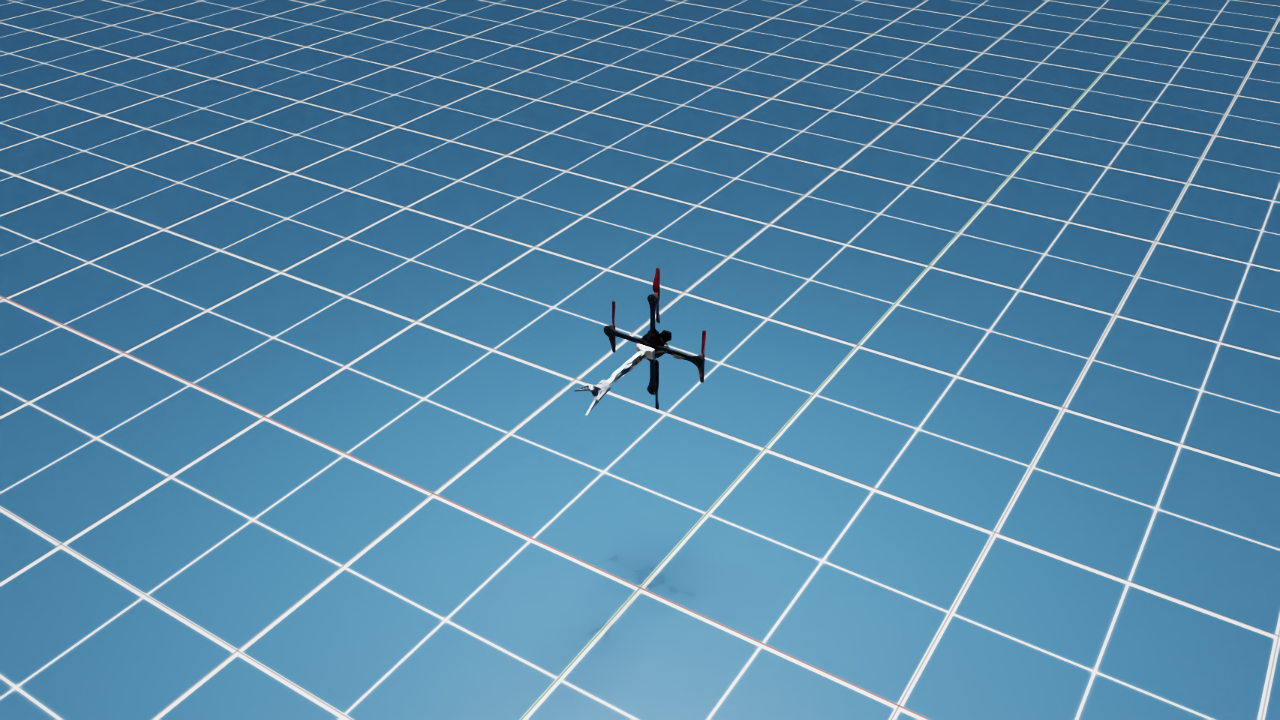
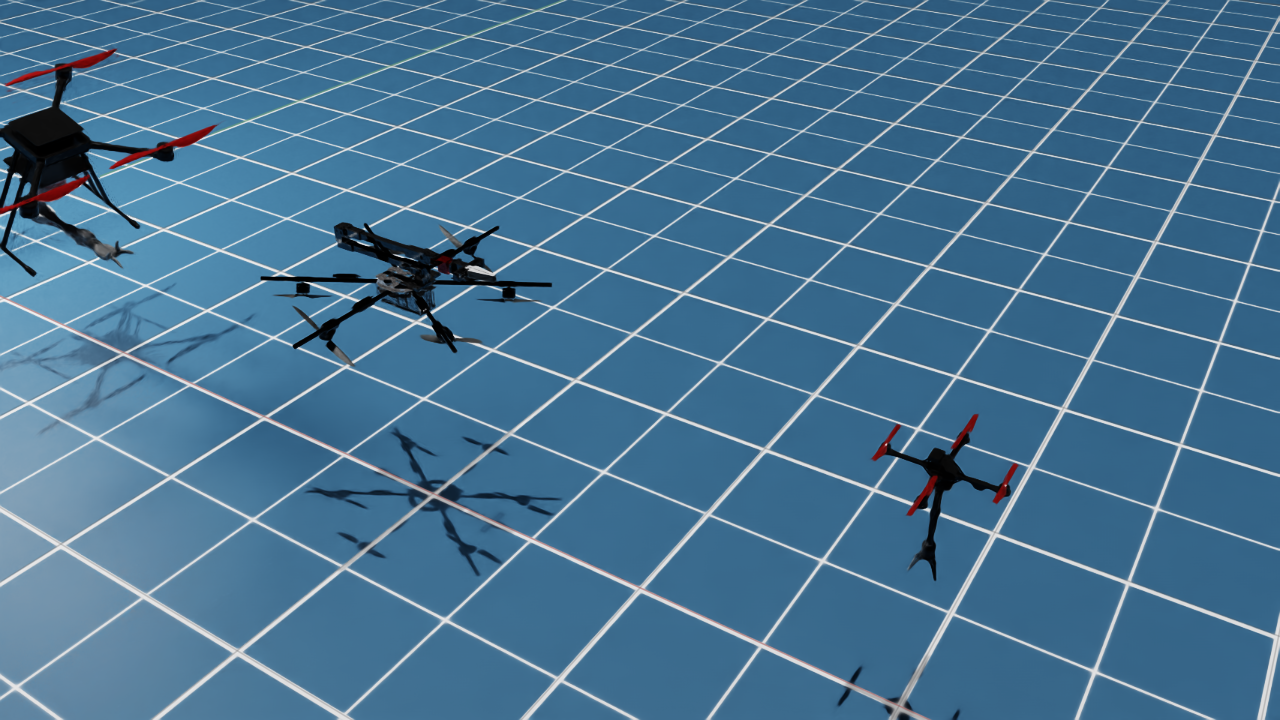
Give every airframe the same black frame / red propellers
The six presets come from four different asset sources and each picked its
own colours: amov's material_100100100 and AM-bench's DefaultMaterial are
plain white, iris650 is dark slate, uaquad600's propellers are Carpaint
silver. Only omnidrones_340 (black frame, red props) and ambench_750 (black
props) looked right.

utils.apply_drone_livery re-binds the rest at spawn time, reusing
omnidrones_340's own two materials verbatim -- vMaterials_2
Plastic_Thick_Translucent's plastic_black/plastic_red -- rather than
approximating them with an OmniPBR colour, so the result is the exact black
and red that asset already renders. Only the drone is touched: base_link
(AM-bench keeps its propellers inside that subtree rather than as separate
bodies) plus any sibling rotor body. Manipulators, grippers and amov's
bundled-in arm keep their own colours. DroneSpec.livery opts the two
already-correct assets out.

Two failures that present only as "the colour did not change":
AM-bench binds a material on base_link as strongerThanDescendants, which
silently outranks every per-mesh binding underneath (uaquad600 re-bound five
meshes and still rendered silver), so existing bindings in the subtree get
demoted to weakerThanDescendants; and iris650's sites/ marker gprims (IMU,
per-rotor thrust points) were being coloured too.

export_uaquad600_usd.py spawns the raw USD instead of going through
AerialManipulatorBase, so it applies the livery by hand -- otherwise the
[…]

diff --git a/debug/check_drone_livery.py b/debug/check_drone_livery.py
@@ -1,0 +1,106 @@
+"""Assert that every preset's airframe wears the shared livery -- and that
+nothing else does.
+
+``AerialManipulatorBase.spawn`` re-binds each drone's frame to plastic_black
+and its propellers to plastic_red (``utils.apply_drone_livery``). Which prims
+count as "propeller" differs per asset -- separate ``rotor_*``/``rotor_link_*``
+bodies on the OmniDrones and amov assets, a ``prop_mount_*`` subtree inside
+``base_link`` on AM-bench's -- so this walks the spawned stage and checks the
+classification actually landed, rather than trusting the name matching.
+
+Checks, per preset:
+  * every livery-bound prim sits under the drone's own base_link or a rotor
+    body -- i.e. the manipulator/gripper (and amov's bundled-in arm, whose
+    bodies are flat siblings of base_link) kept their own colours;
+  * at least one frame prim and the expected number of propeller prims;
+  * the two opted-out assets (omnidrones_340, ambench_750) are untouched.
+
+No sim.reset(): spawn authors every prim directly, so the bindings exist as
+soon as it returns.
+
+Usage:
+    python debug/check_drone_livery.py
+"""
+from aetos_multiam import init_simulation_app
+
+simulation_app = init_simulation_app({"headless": True})
+
+import omni.isaac.core.utils.prims as prim_utils
+from omni.isaac.core.simulation_context import SimulationContext
+from pxr import Usd, UsdGeom, UsdShade
+
+from aetos_multiam.assets import AssetNotAvailableError
+from aetos_multiam.robots.presets import PRESETS, get_preset
+from aetos_multiam.robots.robot_base import AerialManipulatorBase
+from aetos_multiam.utils.usd_fixups import FRAME_MATERIAL, PROP_MATERIAL
+
+# How many propeller *visual* prims each preset's drone should end up with.
+EXPECTED_PROPS = {
+    "amov950_airbot_bottom": 4,
+    "amov950_airbot_dexterous_bottom": 4,
+    "iris650_soarm100": 4,
+    "uaquad600_gripper": 4,
+}
+
+sim = SimulationContext(
+    stage_units_in_meters=1.0, physics_dt=1 / 100, rendering_dt=1 / 100,
+    backend="torch", physics_prim_path="/World/PhysicsScene", device="cpu",
+    sim_params={"use_gpu": False, "use_gpu_pipeline": False},
+)
+
+failures = []
+try:
+    for i, name in enumerate(sorted(PRESETS)):
+        try:
+            am = AerialManipulatorBase(get_preset(name), name=name)
+        except (KeyError, AssetNotAvailableError) as e:
+            failures.append(f"{name}: could not build preset ({e})")
+            continue
+        root_path = f"/World/{name}"
+        am.spawn(translations=[(i * 3.0, 0.0, 1.0)], prim_paths=[root_path])
+
+        root = prim_utils.get_prim_at_path(root_path)
+        frame, prop, stray = [], [], []
+        for prim in Usd.PrimRange(root):
+            if not prim.IsA(UsdGeom.Gprim):
+                continue
+            bound = UsdShade.MaterialBindingAPI(prim).ComputeBoundMaterial()[0]
+            if not bound:
+                continue
+            kind = bound.GetPath().name
+            if kind not in ("livery_frame", "livery_prop"):
+                continue
+            relative = prim.GetPath().pathString[len(root_path) + 1:]
+            body = relative.split("/")[0]
+            if body != "base_link" and "rotor" not in body and "prop" not in body:
+                stray.append(relative)
+            (prop if kind == "livery_prop" else frame).append(relative)
+
+        if not am.drone_spec.livery:
+            if frame or prop:
+                failures.append(f"{name}: opted out of the livery but {len(frame) + len(prop)} prims wear it")
+            print(f"  {name:34s} opted out, untouched  ok", flush=True)
+            continue
+
+        expected = EXPECTED_PROPS.get(name)
+        if expected is None:
+            failures.append(f"{name}: no expected propeller count recorded -- add one to EXPECTED_PROPS")
+        elif len(prop) != expected:
+            failures.append(f"{name}: {len(prop)} propeller prims re-bound, expected {expected}")
+        if not frame:
+            failures.append(f"{name}: no frame prim re-bound")
+        if stray:
+            failures.append(f"{name}: livery leaked outside the airframe: {stray}")
+        print(f"  {name:34s} frame={len(frame):2d} ({FRAME_MATERIAL})  "
+              f"props={len(prop):2d} ({PROP_MATERIAL})", flush=True)
+    # Printed before close(): Kit's fast shutdown swallows anything after it.
+    if failures:
+        print("\nFAILED:", flush=True)
+        for f in failures:
+            print("  -", f, flush=True)
+    else:
+        print("\nDrone livery check PASSED.", flush=True)
+finally:
+    simulation_app.close()
+
+raise SystemExit(1 if failures else 0)

diff --git a/aetos_multiam/utils/usd_fixups.py b/aetos_multiam/utils/usd_fixups.py
@@ -10,7 +10,7 @@ import math
 
 import omni.isaac.core.utils.prims as prim_utils
 import omni.physx.scripts.utils as physx_script_utils
-from pxr import Gf, Usd, UsdGeom, UsdPhysics
+from pxr import Gf, Usd, UsdGeom, UsdPhysics, UsdShade
 
 get_current_stage = prim_utils.get_current_stage
 
@@ -403,3 +403,83 @@ def strip_articulation_root(prim_path: str) -> None:
         raise RuntimeError(f"strip_articulation_root: prim not found: {prim_path}")
     if prim.HasAPI(UsdPhysics.ArticulationRootAPI):
         prim.RemoveAPI(UsdPhysics.ArticulationRootAPI)
+
+
+# The two materials omnidrones_340's own asset binds to its frame and its
+# propellers. Reused verbatim (same MDL, same subidentifier) rather than
+# approximated with an OmniPBR colour, so every drone ends up the exact black
+# and red that asset already renders.
+PLASTIC_MDL = (
+    "http://omniverse-content-production.s3.us-west-2.amazonaws.com/Materials/"
+    "vMaterials_2/Plastic/Plastic_Thick_Translucent.mdl"
+)
+FRAME_MATERIAL = "plastic_black"
+PROP_MATERIAL = "plastic_red"
+
+_PROP_NAME_TOKENS = ("rotor", "prop")
+
+
+def _define_mdl_material(stage, prim_path: str, subidentifier: str):
+    material = UsdShade.Material.Define(stage, prim_path)
+    shader = UsdShade.Shader.Define(stage, f"{prim_path}/Shader")
+    shader.SetSourceAsset(PLASTIC_MDL, "mdl")
+    shader.SetSourceAssetSubIdentifier(subidentifier, "mdl")
+    material.CreateSurfaceOutput("mdl").ConnectToSource(shader.ConnectableAPI(), "out")
+    return material
+
+
+def apply_drone_livery(drone_prim_path: str) -> int:
+    """Re-bind a drone's airframe to the shared black frame / red propeller
+    livery, returning how many visual prims were re-bound.
+
+    Only the drone itself is touched: ``base_link`` (AM-bench's assets keep
+    their propellers inside its subtree rather than as separate bodies) plus
+    any sibling body whose name says rotor/propeller. A mounted manipulator
+    or gripper -- and a bundled-in arm, whose bodies are flat siblings of
+    base_link on amov_drone_arm -- keeps whatever colours its own asset ships.
+
+    shortcut: a prim whose *name* contains "prop" is taken to be a propeller,
+    which would miscolour ambench_750's "v2_prop_arm_*" frame booms; that
+    asset keeps ``DroneSpec.livery = False`` anyway. Revisit if a new asset
+    names its booms that way.
+    """
+    stage = get_current_stage()
+    root = stage.GetPrimAtPath(drone_prim_path)
+    if not root.IsValid():
+        raise RuntimeError(f"apply_drone_livery: prim not found: {drone_prim_path}")
+
+    frame = _define_mdl_material(stage, f"{drone_prim_path}/Looks/livery_frame", FRAME_MATERIAL)
+    prop = _define_mdl_material(stage, f"{drone_prim_path}/Looks/livery_prop", PROP_MATERIAL)
+
+    bodies = [stage.GetPrimAtPath(f"{drone_prim_path}/base_link")]
+    bodies += [
+        child for child in root.GetChildren()
+        if any(token in child.GetName().lower() for token in _PROP_NAME_TOKENS)
+    ]
+
+    bound = 0
+    for body in bodies:
+        if not body.IsValid():
+            continue
+        for prim in Usd.PrimRange(body):
+            # AM-bench's assets bind one material on the body prim itself as
+            # "strongerThanDescendants", which silently outranks anything
+            # bound per-mesh underneath -- the meshes end up re-bound and
+            # still render in the asset's own colour.
+            binding = prim.GetRelationship("material:binding")
+            if binding and binding.GetTargets():
+                UsdShade.MaterialBindingAPI.SetMaterialBindingStrength(
+                    binding, UsdShade.Tokens.weakerThanDescendants
+                )
+            if not prim.IsA(UsdGeom.Gprim):
+                continue
+            relative = prim.GetPath().pathString[len(drone_prim_path):].lower()
+            # "sites" are the MJCF marker gprims these assets carry (IMU, per-
+            # rotor thrust points) -- not geometry anyone sees.
+            if "collision" in relative or "/sites/" in relative:
+                continue
+            is_prop = any(token in relative for token in _PROP_NAME_TOKENS)
+            UsdShade.MaterialBindingAPI.Apply(prim).Bind(prop if is_prop else frame)
+            bound += 1
+    logging.info("apply_drone_livery: re-bound %d visual prims under %s", bound, drone_prim_path)
+    return bound

diff --git a/scripts/export_uaquad600_usd.py b/scripts/export_uaquad600_usd.py
@@ -55,6 +55,7 @@ from omni.isaac.core.simulation_context import SimulationContext
 from pxr import Gf, Usd, UsdGeom, UsdPhysics
 
 from aetos_multiam.robots.drones.ambench_600 import AMBENCH_600_USD_PATH
+from aetos_multiam.utils import apply_drone_livery
 
 logging.basicConfig(level=logging.INFO)
 
@@ -128,6 +129,12 @@ joint = stage.GetPrimAtPath(f"{ROOT_PATH}/joints/arm_base_fixed")
 joint.GetAttribute("physics:localPos0").Set(Gf.Vec3f(TARGET_POS))
 joint.GetAttribute("physics:localRot0").Set(Gf.Quatf(TARGET_QUAT))
 logging.info("Updated arm_base_fixed joint localPos0/localRot0 to match.")
+
+# This export spawns the raw USD instead of going through
+# AerialManipulatorBase.spawn, so the livery it would normally apply has to
+# be applied by hand -- otherwise the baked file is the only uaquad600 in the
+# project still wearing the asset's white frame and silver propellers.
+apply_drone_livery(ROOT_PATH)
 
 out_dir = os.path.join(
     os.path.dirname(os.path.abspath(__file__)), "..", "aetos_multiam", "assets",

diff --git a/aetos_multiam/robots/drones/drone_base.py b/aetos_multiam/robots/drones/drone_base.py
@@ -24,6 +24,12 @@ class DroneSpec:
     """Body on the drone that a manipulator's root gets mounted/welded onto."""
     class_size_mm: int = 0
     """Nominal rotor-to-rotor diameter class, informational only."""
+    livery: bool = True
+    """Whether spawn re-binds this drone's airframe to the shared black-frame/
+    red-propeller livery (``utils.apply_drone_livery``). False for the two
+    assets that already look right: omnidrones_340, whose own plastic_black/
+    plastic_red the livery copies, and ambench_750, whose black propellers
+    were kept on request."""
     eef_body_name: Optional[str] = None
     """Only set when this drone's own USD bakes in an arm with no separate
     ManipulatorSpec (e.g. amov_drone_arm): the body a task should track as

diff --git a/aetos_multiam/robots/robot_base.py b/aetos_multiam/robots/robot_base.py
@@ -17,6 +17,7 @@ from omni.isaac.core.simulation_context import SimulationContext
 
 from aetos_multiam.utils import (
     add_articulation_root,
+    apply_drone_livery,
     deactivate_prim,
     mount_child,
     normalize_joint_drives,
@@ -179,6 +180,8 @@ class AerialManipulatorBase:
         # which is exactly the one case the drive fixup was added for.
         for prim in prims:
             self._apply_asset_fixups(prim.GetPath().pathString)
+            if self.drone_spec.livery:
+                apply_drone_livery(prim.GetPath().pathString)
         return prims
 
     def _apply_asset_fixups(self, drone_prim_path: str) -> None:

diff --git a/aetos_multiam/utils/__init__.py b/aetos_multiam/utils/__init__.py
@@ -2,6 +2,7 @@ from .arm_dynamics import freeze_arm_dynamics
 from .usd_compose import mount_child
 from .usd_fixups import (
     add_articulation_root,
+    apply_drone_livery,
     add_joint_drive,
     deactivate_prim,
     disable_collision,
@@ -21,6 +22,7 @@ __all__ = [
     "freeze_arm_dynamics",
     "mount_child",
     "add_articulation_root",
+    "apply_drone_livery",
     "add_joint_drive",
     "deactivate_prim",
     "disable_collision",

diff --git a/aetos_multiam/robots/drones/ambench_750.py b/aetos_multiam/robots/drones/ambench_750.py
@@ -117,6 +117,7 @@ AMBENCH_750 = register_drone(
         param_path=AMBENCH_750_PARAM_PATH,
         mount_body_name="base_link",
         class_size_mm=750,
+        livery=False,  # already black-propped, kept as-is on request
         note=(
             f"Real Isaac Sim USD at {AMBENCH_750_USD_PATH} (AM-bench's own "
             f"asset, arm+gripper bundled in -- see {MJCF_SOURCE_PATH} for a "

diff --git a/aetos_multiam/robots/drones/omnidrones_340.py b/aetos_multiam/robots/drones/omnidrones_340.py
@@ -20,6 +20,7 @@ OMNIDRONES_340 = register_drone(
         param_path=_Hummingbird.param_path,
         mount_body_name="base_link",
         class_size_mm=340,
+        livery=False,  # the asset this project's livery copies its colours from
         note="Real asset and physics; not exercised by any task yet.",
     )
 )

diff --git a/docs/MANUAL_ZH.md b/docs/MANUAL_ZH.md
@@ -133,6 +133,46 @@ teleport 一条路,而 teleport 会把无人机偏航 67.8°。两条都在
 
 ---
 
+## 3bis. 统一涂装:黑机架 + 红桨
+
+六个机型的资产来自四个不同的源,颜色各自为政:amov 的 `material_100100100` 和
+ambench 的 `DefaultMaterial` 都是纯白,iris650 是深青灰 (0.18, 0.25, 0.32),
+uaquad600 的桨是 Carpaint 银色。只有 omnidrones_340(黑机架 + 红桨)和
+ambench_750(黑桨)看着是对的。
+
+所以 **spawn 时统一重绑材质**:`utils.apply_drone_livery(drone_prim_path)`,由
+`AerialManipulatorBase.spawn` 的第二遍循环在 `_apply_asset_fixups` 之后调用。
+
+- 用的就是 omnidrones_340 自己那两个材质 —— vMaterials_2 的
+  `Plastic_Thick_Translucent.mdl` 里的 `plastic_black` / `plastic_red`,整份
+  MDL 原样引用,不是拿 OmniPBR 调个近似色,这样颜色和手感和那个资产完全一致。
+  代价是这个 MDL 走 HTTP 拉取(omnidrones_340 本来就依赖它,所以不是新增的失败
+  点);离线时会退化成默认灰。
+- **只动无人机自己**:`base_link`(ambench 的桨就挂在它的子树里,不是独立刚体)
+  加上名字里带 rotor/prop 的兄弟刚体。机械臂、夹爪,以及 amov_drone_arm 那种
+  "内置机械臂、body 和 base_link 平级"的情况,都保持资产原有配色。
+- 哪些算桨:相对路径里出现 rotor/prop。**shortcut**:ambench_750 的
+  `v2_prop_arm_*` 是机臂不是桨,会被误判 —— 它本来就 `livery=False`,但以后新资产
+  要是这么命名就得改判据。
+- `collision` 和 `sites`(MJCF 的 IMU / 推力点标记)跳过。
+- 退出开关是 `DroneSpec.livery`,omnidrones_340 和 ambench_750 设成 `False`。
+
+两个踩过的坑,都不报错、只是"颜色没变":
+
+1. **ambench 的资产在 `base_link` 上绑了一个
+   `strongerThanDescendants` 的材质**,会直接盖过底下每个 mesh 的绑定 ——
+   uaquad600 重绑了 5 个 mesh,渲染出来还是原色。现在遍历时顺手把子树里所有已有
+   绑定的强度降成 `weakerThanDescendants`。
+2. iris650 的 `sites/` 下有 IMU 和每个旋翼的推力点 gprim,一起被染了色(看不见,
+   但计数对不上)。
+
+验证:`python debug/check_drone_livery.py` —— spawn 全部六个机型,断言每个
+airframe 的 frame/桨数量对得上、且没有任何 livery 材质漏到机械臂上;两个
+`livery=False` 的机型必须一个都没碰。当前输出:四个重绘机型都是 frame=1 / props=4,
+另外两个 opted out。
+
+---
+
 ## 4. 已修复的八个缺陷
 
 每一个都是真实缺陷,而且大多是**飞起来才发现的** —— 数值指标全过,只有在
@@ -456,7 +496,26 @@ python examples/show_am_action.py --preset all --headless --video out.mp4
 `--video-fps`(25)/ `--headless`。
 
 README 里那六个动图就是 `--video` 出来的 mp4 转的 3 倍速 GIF。mp4 本身
-(`resources/*.mp4`,每个约 11 MB)不进 git。
+(`resources/*.mp4`,每个约 11 MB)不进 git,GIF 进。重新生成:
+
+```bash
+# 1) 每个机型录一段(约 40 秒一个,745 帧 / 25 fps)
+for p in amov950_airbot_bottom amov950_airbot_dexterous_bottom \
+         hummingbird340_2dof_gripper iris650_soarm100 \
+         uaquad600_gripper fahexa750_gripper; do
+    python examples/show_am_action.py --preset $p --headless --video resources/$p.mp4
+done
+
+# 2) 转 3 倍速 GIF(240 px / 10 fps / 32 色,每个约 1 MB)
+#    系统 ffmpeg 没有 libx264 也没有 png 解码器,用 imageio_ffmpeg 自带的那个
+FF=$(python -c "import imageio_ffmpeg;print(imageio_ffmpeg.get_ffmpeg_exe())")
+for f in resources/*.mp4; do
+    $FF -y -i "$f" -filter_complex \
+      "[0:v]setpts=PTS/3,fps=10,scale=240:-1:flags=lanczos,split[a][b];\
+       [a]palettegen=max_colors=32[p];[b][p]paletteuse=dither=bayer:bayer_scale=3" \
+      -loop 0 "${f%.mp4}.gif"
+done
+```
 
 ---
 
@@ -779,6 +838,14 @@ python scripts/export_robot_usd.py --config scripts/export_configs/iris650_soarm
 `export_robot_usd.py` 自己的 module docstring,什么时候该重跑哪一份见
 [`ASSETS.md`](ASSETS.md)。
 
+注意 `export_uaquad600_usd.py` 和 `fahexa750_gripper.yaml` 都是直接
+`create_prim` 原始 USD,绕开了 `AerialManipulatorBase.spawn` —— 所以统一涂装
+(§3bis)不会自动生效。uaquad600 的脚本里已经手工补了一次
+`apply_drone_livery(ROOT_PATH)`;fahexa750 本来就 `livery=False`,不需要。
+以后再加走 `raw_usd_path` 的机型,记得这一条。
+
+这六个 USD 和 `resources/` 里的六个动图,都在 2026-11-09 用统一涂装重新生成过。
+
 ---
 
 ## 9bis. `scripts/` 和 `debug/` 的分界
@@ -792,7 +859,8 @@ python scripts/export_robot_usd.py --config scripts/export_configs/iris650_soarm
   算法,benchmark 里没有任何代码 import 它们:
   `measure_gripper_range.py`(夹爪开口 vs 关节角)、
   `verify_iris650_flight.py`(iris650 改完资产后还推不推得动、悬不悬得住)、
-  `record_iris650_trajectory.py`(把一段脚本飞行录成 PNG 序列)。
+  `record_iris650_trajectory.py`(把一段脚本飞行录成 PNG 序列)、
+  `check_drone_livery.py`(见 §3bis)。
 
 ---
 

diff --git a/debug/README.md b/debug/README.md
@@ -9,6 +9,7 @@ actually what we think it is", and nothing in the benchmark imports them.
 | `measure_gripper_range.py` | how far the SO-ARM jaw opens, in millimetres, against joint angle |
 | `verify_iris650_flight.py` | does `iris650_soarm100` still thrust, hover and track after an asset change |
 | `record_iris650_trajectory.py` | what a scripted flight looks like, as a PNG sequence to encode |
+| `check_drone_livery.py` | did every airframe get the shared black/red livery, and only the airframe |
 
 Anything tied to a specific task stays in `scripts/` instead -- e.g.
 `scripts/check_gear_assembly.py` builds the `AerialAssembly` env and asserts
